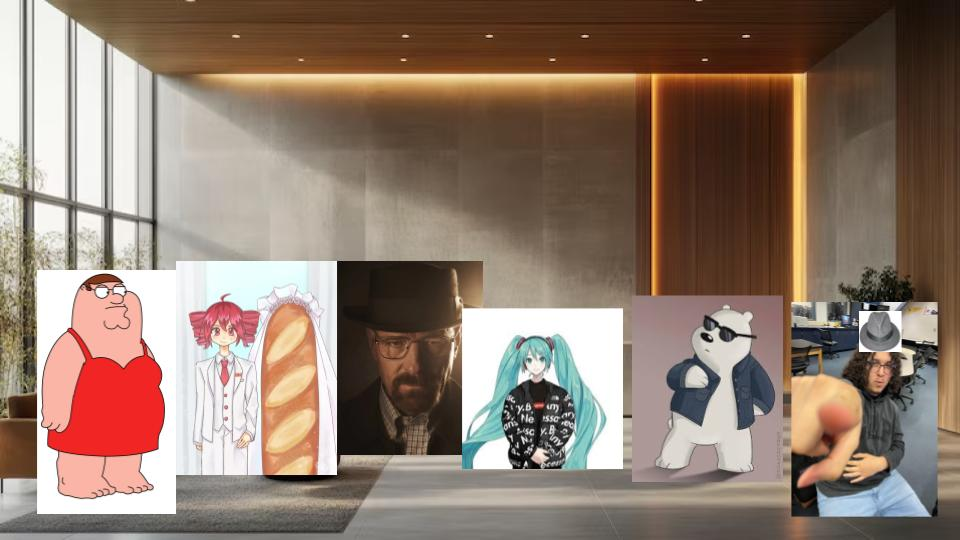
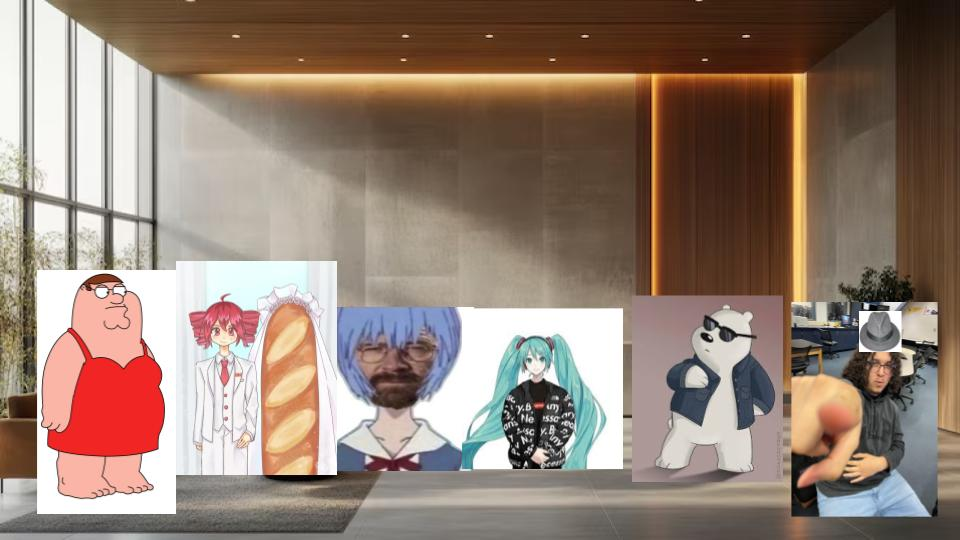
binglor

Changed region(s): [[0.3438, 0.4741, 0.5, 0.8889]]

diff --git a/adventure.js b/adventure.js
@@ -91,8 +91,8 @@ const story = {
             scenes: [
                 {
                 text: `“Please,” he begs, gripping your uniform. “We need you.” He stares at you, waiting for an answer`,
-                image: ``,
-                cutscene: [{ text: `You shake your head and walk back inside Good Burger. Flipping patties is way safer than fighting an anime pop goddess`, image: `` }, { text: `Just as you settle back in, a portal bursts open inside the restaurant. Master Shifu stumbles out, eyes wild` }, { text: `“WHAT ARE YOU DOING?!” He launches into a desperate rant about Miku’s reign of terror—how she’s ravaged his world, abolished privacy, and turned society into a dystopian nightmare` }],
+                image: `images/refusal/4.jpg`,
+                cutscene: [{ text: `You shake your head and walk back inside Good Burger. Flipping patties is way safer than fighting an anime pop goddess`, image: `images/refusal/1.jpg` }, { text: `Just as you settle back in, a portal bursts open inside the restaurant. Master Shifu stumbles out, eyes wild`, image: `images/refusal/2.jpg` }, { text: `“WHAT ARE YOU DOING?!” He launches into a desperate rant about Miku’s reign of terror—how she’s ravaged his world, abolished privacy, and turned society into a dystopian nightmare`, image: `images/refusal/3.jpg` }],
                 options: ["Fine, I`ll join you", `No`],
                 scenes: [
                     {
